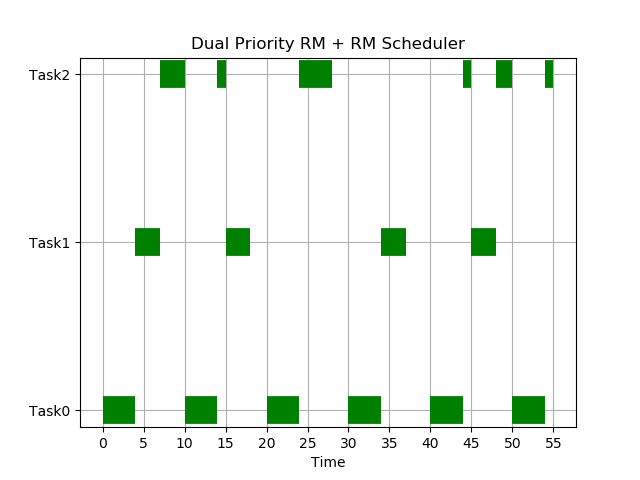
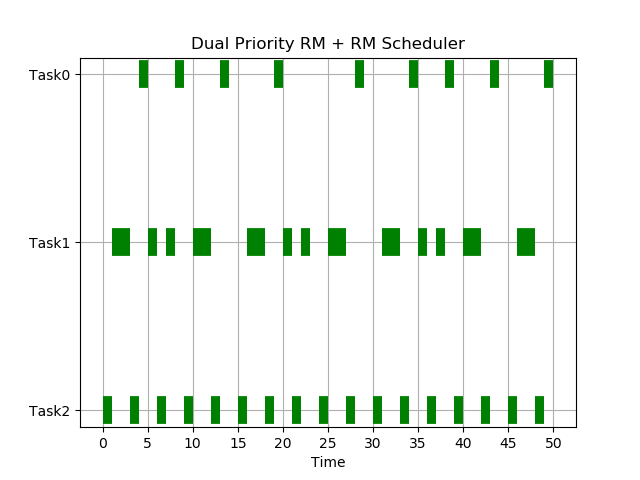
Showing time intervals

diff --git a/simulate_dual.py b/simulate_dual.py
@@ -22,21 +22,21 @@ class SimulateDual:
 
     def order_tasks(self):
         self.tasks.sort(key=lambda x: x.period)
-        print("ordered tasks by period", self.tasks)
+        # print("ordered tasks by period", self.tasks)
 
     def assign_priority_1(self):
         c = len(self.tasks) + 1
         for task in self.tasks:
             task.set_priority_1(c)
             c += 1
-        print("Tasks assigned P1: {}".format(self.tasks))
+        #print("Tasks assigned P1: {}".format(self.tasks))
 
     def assign_priority_2(self):
         c = 1
         for task in self.tasks:
             task.set_priority_2(c)
             c += 1
-        print("Tasks assigned P2: {}".format(self.tasks))
+        #print("Tasks assigned P2: {}".format(self.tasks))
 
     def get_utilization(self):
         u = 0
@@ -72,6 +72,9 @@ class SimulateDual:
         #print(jobs)
         return jobs
 
+    def print_intervals(self, task_id, job_id, start_time, end_time):
+        print("{}-{}: T{}J{}".format(start_time, end_time, task_id, job_id))
+
     def simulate(self):
         tasks_order = []
         fx = []
@@ -82,35 +85,45 @@ class SimulateDual:
         jobs = self.create_jobs()
         #hyperperiod = get_hyperperiod(self.tasks)
         print("Schedule from: 0 to: {} ; {} tasks".format(self.stop_point, len(self.tasks)))
+        last_task_id = -1
+        last_job_id = -1
+        start_job_time = 0
         for time in range(0, self.stop_point):
             queue_jobs = []
             for job in jobs:
                 if time == job.s:
-                    print("T:{}J:{} time:{} s:{} P1:{}--->P2:{}".format(job.task_id, job.job_id, time, job.s,
-                                                                        job.priority_1, job.priority_2))
+                    #print("T:{}J:{} time:{} s:{} P1:{}--->P2:{}".format(job.task_id, job.job_id, time, job.s,
+                     #                                                   job.priority_1, job.priority_2))
                     job.set_priority_1(job.get_priority_2())
                 if job.start <= time:
                     queue_jobs.append(job)
             queue_jobs.sort(key=lambda x: x.priority_1)
-            print(queue_jobs)
+            #print(queue_jobs)
 
             if len(queue_jobs) > 0:
                 tasks_order.append("Task{}".format(queue_jobs[0].task_id))
                 fx.append(time)
                 tx.append(time+1)
-                print("{}-{}: T{}J{}".format(time, time + 1, queue_jobs[0].task_id, queue_jobs[0].get_job_id()))
+                if(last_task_id != -1 and last_job_id != -1 and (last_job_id != queue_jobs[0].get_job_id()
+                        or last_task_id != queue_jobs[0].task_id)):
+                    self.print_intervals(last_task_id,last_job_id, start_job_time, time)
+                    start_job_time = time
+                last_task_id = queue_jobs[0].task_id
+                last_job_id = queue_jobs[0].get_job_id()
+                #print("{}-{}: T{}J{}".format(time, time + 1, queue_jobs[0].task_id, queue_jobs[0].get_job_id()))
                 job_usage = queue_jobs[0].job_usage()
                 if job_usage:
-                    print("T{}J{} Finished".format(queue_jobs[0].task_id, queue_jobs[0].job_id))
+                    #print("T{}J{} Finished".format(queue_jobs[0].task_id, queue_jobs[0].job_id))
                     jobs.remove(queue_jobs[0])
                 else:
                     for job in jobs:
                         if time + 1 == job.end:
-                            print("Missed deadline --- Stopping...")
+                            #print("Missed deadline --- Stopping...")
+                            self.print_intervals(last_task_id, last_job_id, start_job_time, time + 1)
                             return False, job.get_task_id()
             else:
                 print("{}-{}: idle slot".format(time, time + 1))
-
+        self.print_intervals(last_task_id, last_job_id, start_job_time, time+1)
         print("END")
         if self.graphing:
             self.plot_tasks(tasks_order, fx, tx)

diff --git a/project.py b/project.py
@@ -1,57 +1,53 @@
 import sys
 from task_generator import TaskGenerator
-from file_creator import FileCreator
+from file_creator import TaskFileManager
 from simulate_dual import SimulateDual
 from fdms import Fdms
 
+
 class Main:
     def __init__(self):
-        print("Project 1 RTOS: dual priority")
+        print("Project 1 RTOS: Dual Priority")
 
-    def r_file(self, argument):
-        file = FileCreator()
-        tasks = file.open_file(argument)
-        return tasks
+    @staticmethod
+    def generate(total_tasks, total_utilization, file):
+        task_generator = TaskGenerator(total_tasks, total_utilization)
+        tasks = task_generator.generate_tasks()
+        TaskFileManager.write_file(tasks, file)
 
-    def w_file(self, tasks, argument):
-        file = FileCreator()
-        file.write_file(tasks, argument)
-        print("Tasks written successfully")
+    @staticmethod
+    def fdms(file):
+        tasks = TaskFileManager.read_file(file)
+        tasks_fdms = Fdms(tasks)
+        tasks_fdms.fdms()
 
-    def execute(self):
+    @staticmethod
+    def simulate(file, stop_time):
+        tasks = TaskFileManager.read_file(file)
+        scheduler = SimulateDual(tasks, stop_time)
+        result, t_id = scheduler.simulate()
+
+    @staticmethod
+    def execute():
         if len(sys.argv) > 1:
-            argument = sys.argv[1]
-            if argument == 'gen':
+            mode = sys.argv[1]
+            if mode == 'gen':
                 if len(sys.argv) > 4:
-                    task_generator = TaskGenerator(int(sys.argv[2]), int(sys.argv[3]))  # arv[2] = # of tasks ; argv[3]= Utilization
-                    tasks = task_generator.generate_tasks()
-                    self.w_file(tasks, sys.argv[4])
-                    # file = FileCreator()
-                    # file.write_file(tasks, sys.argv[4])
-                    # print("Tasks written successfully ")
+                    Main.generate(int(sys.argv[2]), int(sys.argv[3]), sys.argv[4])
                 else:
                     print("Arguments missing: Please use the form: gen  number_of_tasks  utilization_percentage  "
                           "filename.txt")
-            elif argument == 'fdms':
-                tasks = self.r_file(sys.argv[2])
-                tasks_fdms = Fdms(tasks)
-                tasks_fdms.fdms()
-            elif argument == 'simulation':
-                print("simulation")
-                tasks = self.r_file(sys.argv[2])
-                stop_time = int(sys.argv[3])
-                scheduler = SimulateDual(tasks, stop_time)
-                result, t_id = scheduler.simulate()
-
-
-            #elif argument == 'simulation_graph':
-
+            elif mode == 'fdms':
+                Main.fdms(sys.argv[2])
+            elif mode == 'simulation':
+                Main.simulate(sys.argv[2], int(sys.argv[3]))
+            else:
+                print("Unrecognized mode.")
         else:
             print("Insufficient arguments, please use correct syntax")
 
 
 if __name__ == '__main__':
-    main = Main()
-    main.execute()
+    Main.execute()
 
 

diff --git a/file_creator.py b/file_creator.py
@@ -1,27 +1,29 @@
 from task import Task
 
 
-class FileCreator:
+class TaskFileManager:
     def __init__(self):
         pass
 
-    def write_file(self, tasks, file):
-
+    @staticmethod
+    def write_file(tasks, file):
         file = open(file, 'w')
         for task in tasks:
-            file.write("{}; {}; {} \n".format(task.get_offset(), task.get_computation_time(), task.get_period())) #generates tuple(Offset;WCET,Period)
+            file.write("{}; {}; {} \n".format(task.get_offset(), task.get_computation_time(), task.get_period()))
         file.close()
 
-    def open_file(self,file):
+    @staticmethod
+    def read_file(file_name):
         tasks = []
         task_id = 0
-        f = open(file, "r")
-        for x in f:
-            line = x.split(";")
-            tasks.append(Task(int(line[0]), int(line[1]), int(line[2]), task_id))
+        file = open(file_name, "r")
+        for line in file:
+            task_values = line.split(";")
+            tasks.append(Task(int(task_values[0]), int(task_values[1]), int(task_values[2]), task_id))
             task_id += 1
-        f.close()
+        file.close()
         return tasks
+
 
 
 

diff --git a/fdms.py b/fdms.py
@@ -19,7 +19,7 @@ class Fdms:
         print("Tasks initialized with S: ", self.tasks)
         print(self.tasks)
         stop_point = get_hyperperiod(self.tasks)
-        print("HP: {}".format(stop_point))
+        #print("HP: {}".format(stop_point))
         tasks_simulated = SimulateDual(self.tasks, stop_point)
         result, t_id = tasks_simulated.simulate()
         while not result:
@@ -34,6 +34,7 @@ class Fdms:
                         task.set_s(task.get_s() - 1)
                         result, t_id = tasks_simulated.simulate()
                 #self.tasks[t_id].set_s(self.tasks[t_id].get_s() - 1)
+
                 #result, t_id = tasks_simulated.simulate()
         if result:
             print("Tasks scheduled successfully.")

diff --git a/plotter.py b/plotter.py
@@ -11,8 +11,6 @@ class Plotter:
         plt.ylabel("Tasks")
         plt.grid(True, linestyle="--")
 
-    #def plot_dual_priority(self):
-
     def plot_tasks(self):
         for task in self.tasks:
             period = task.get_period()
